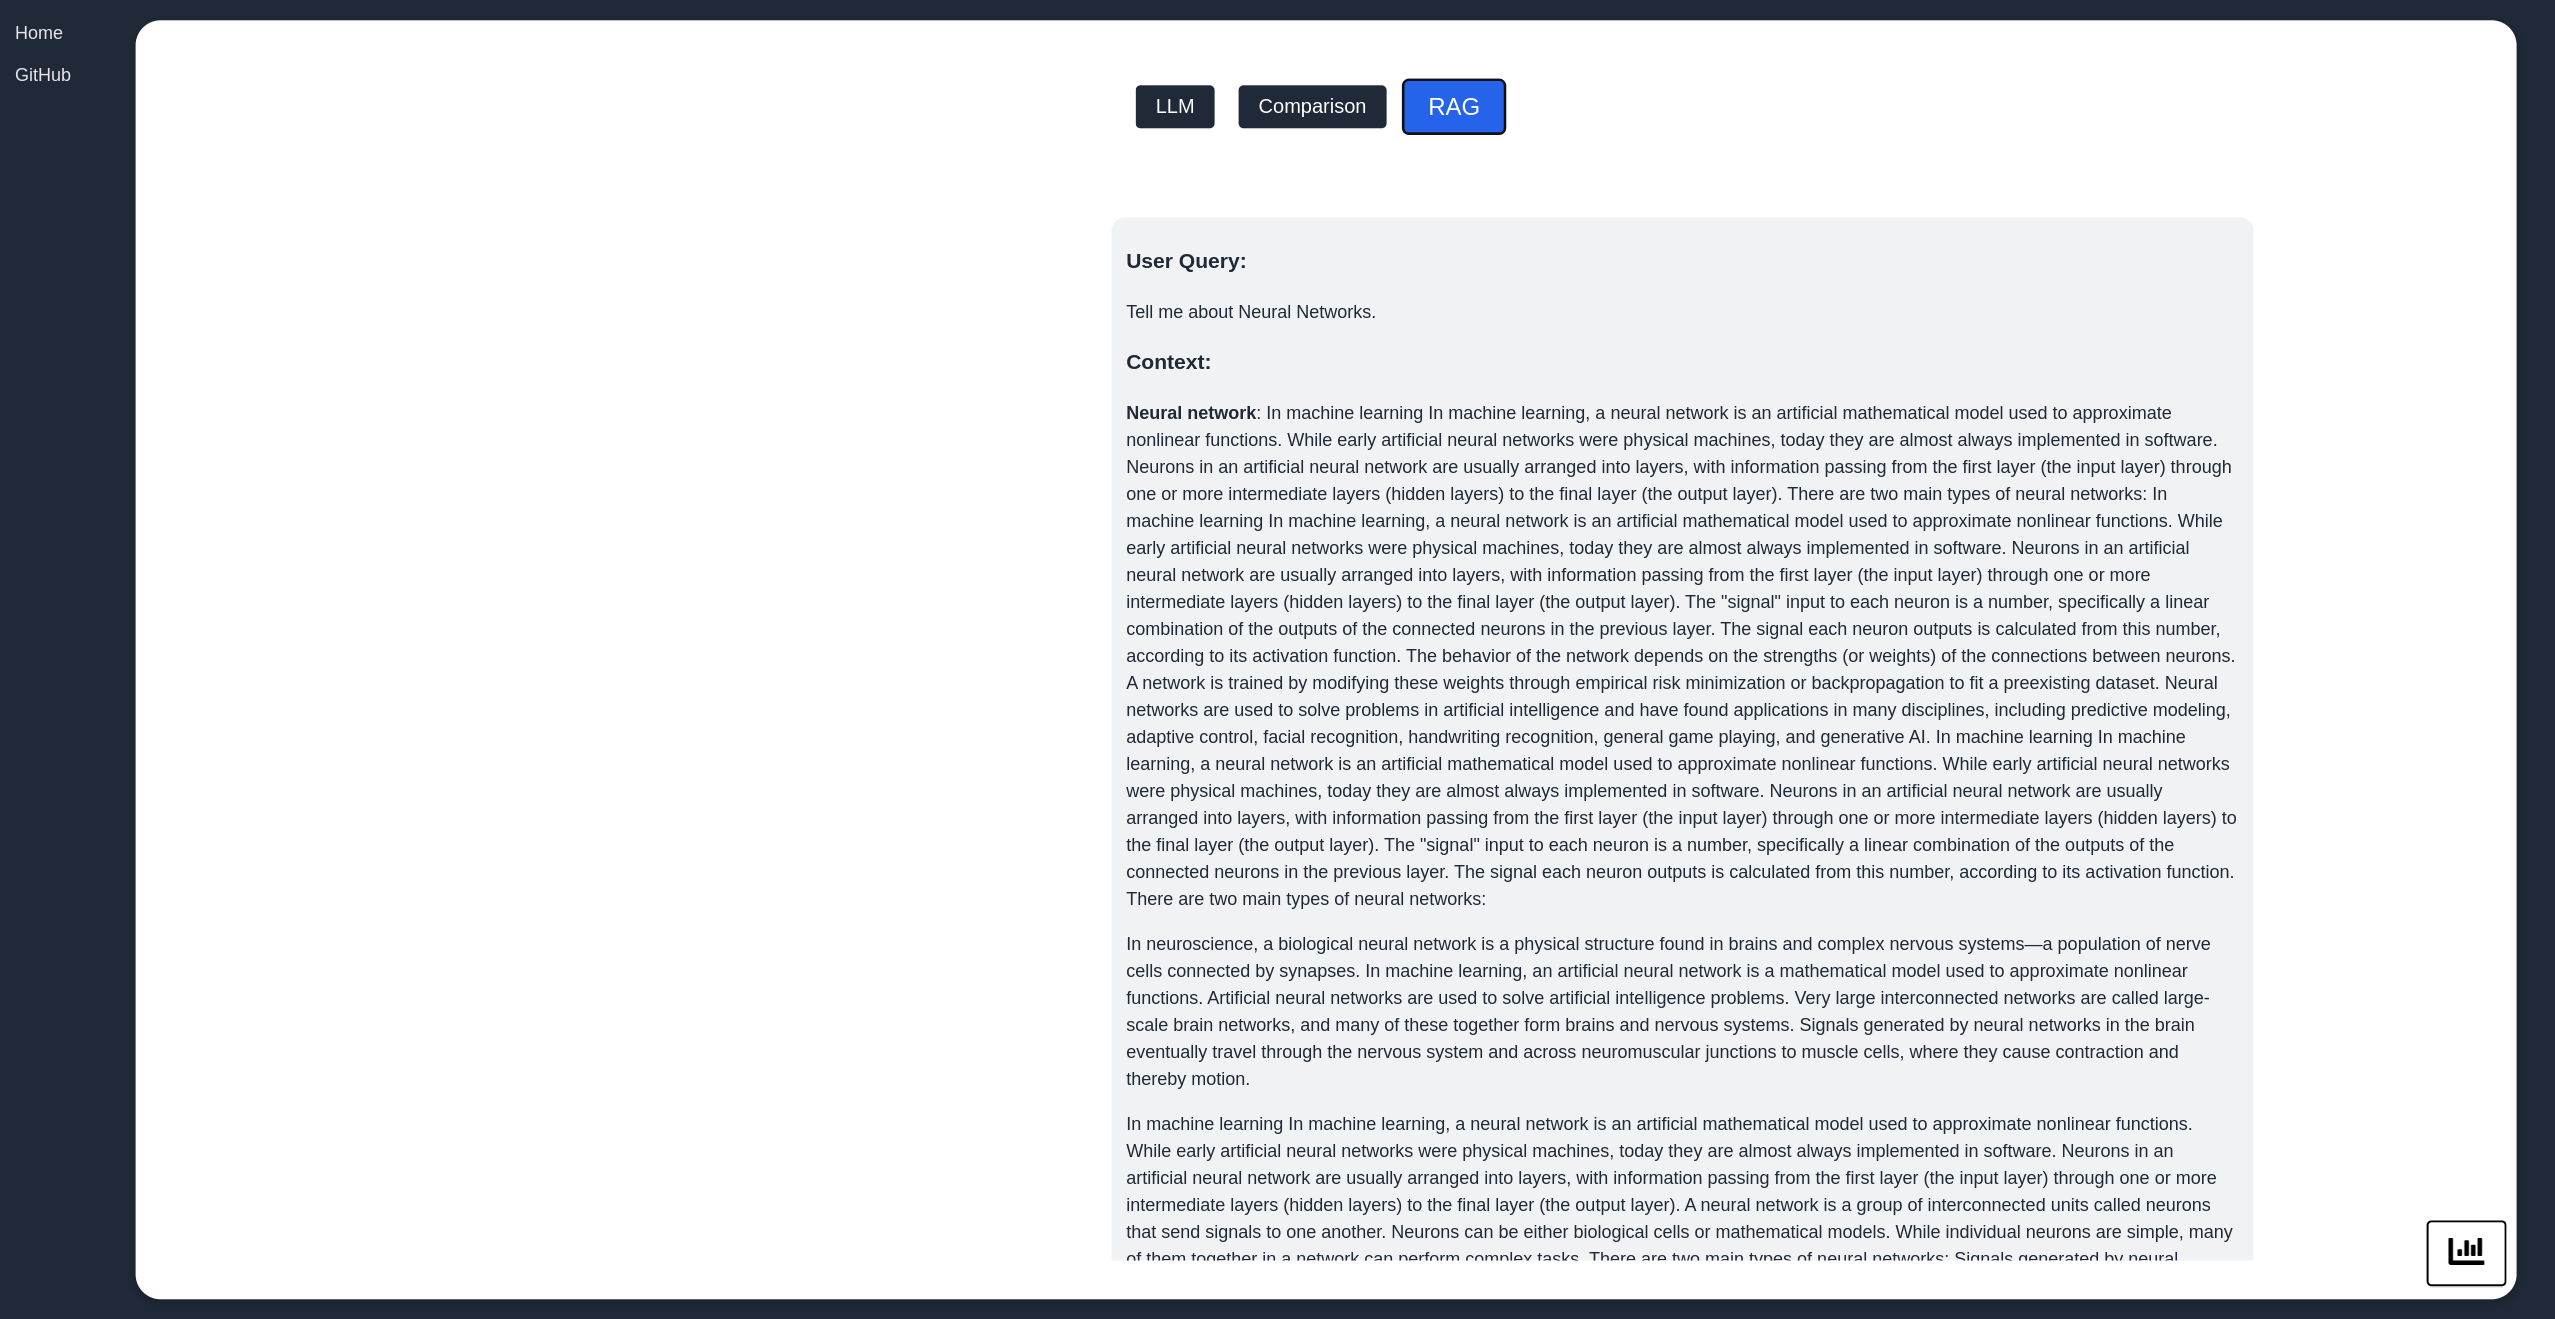
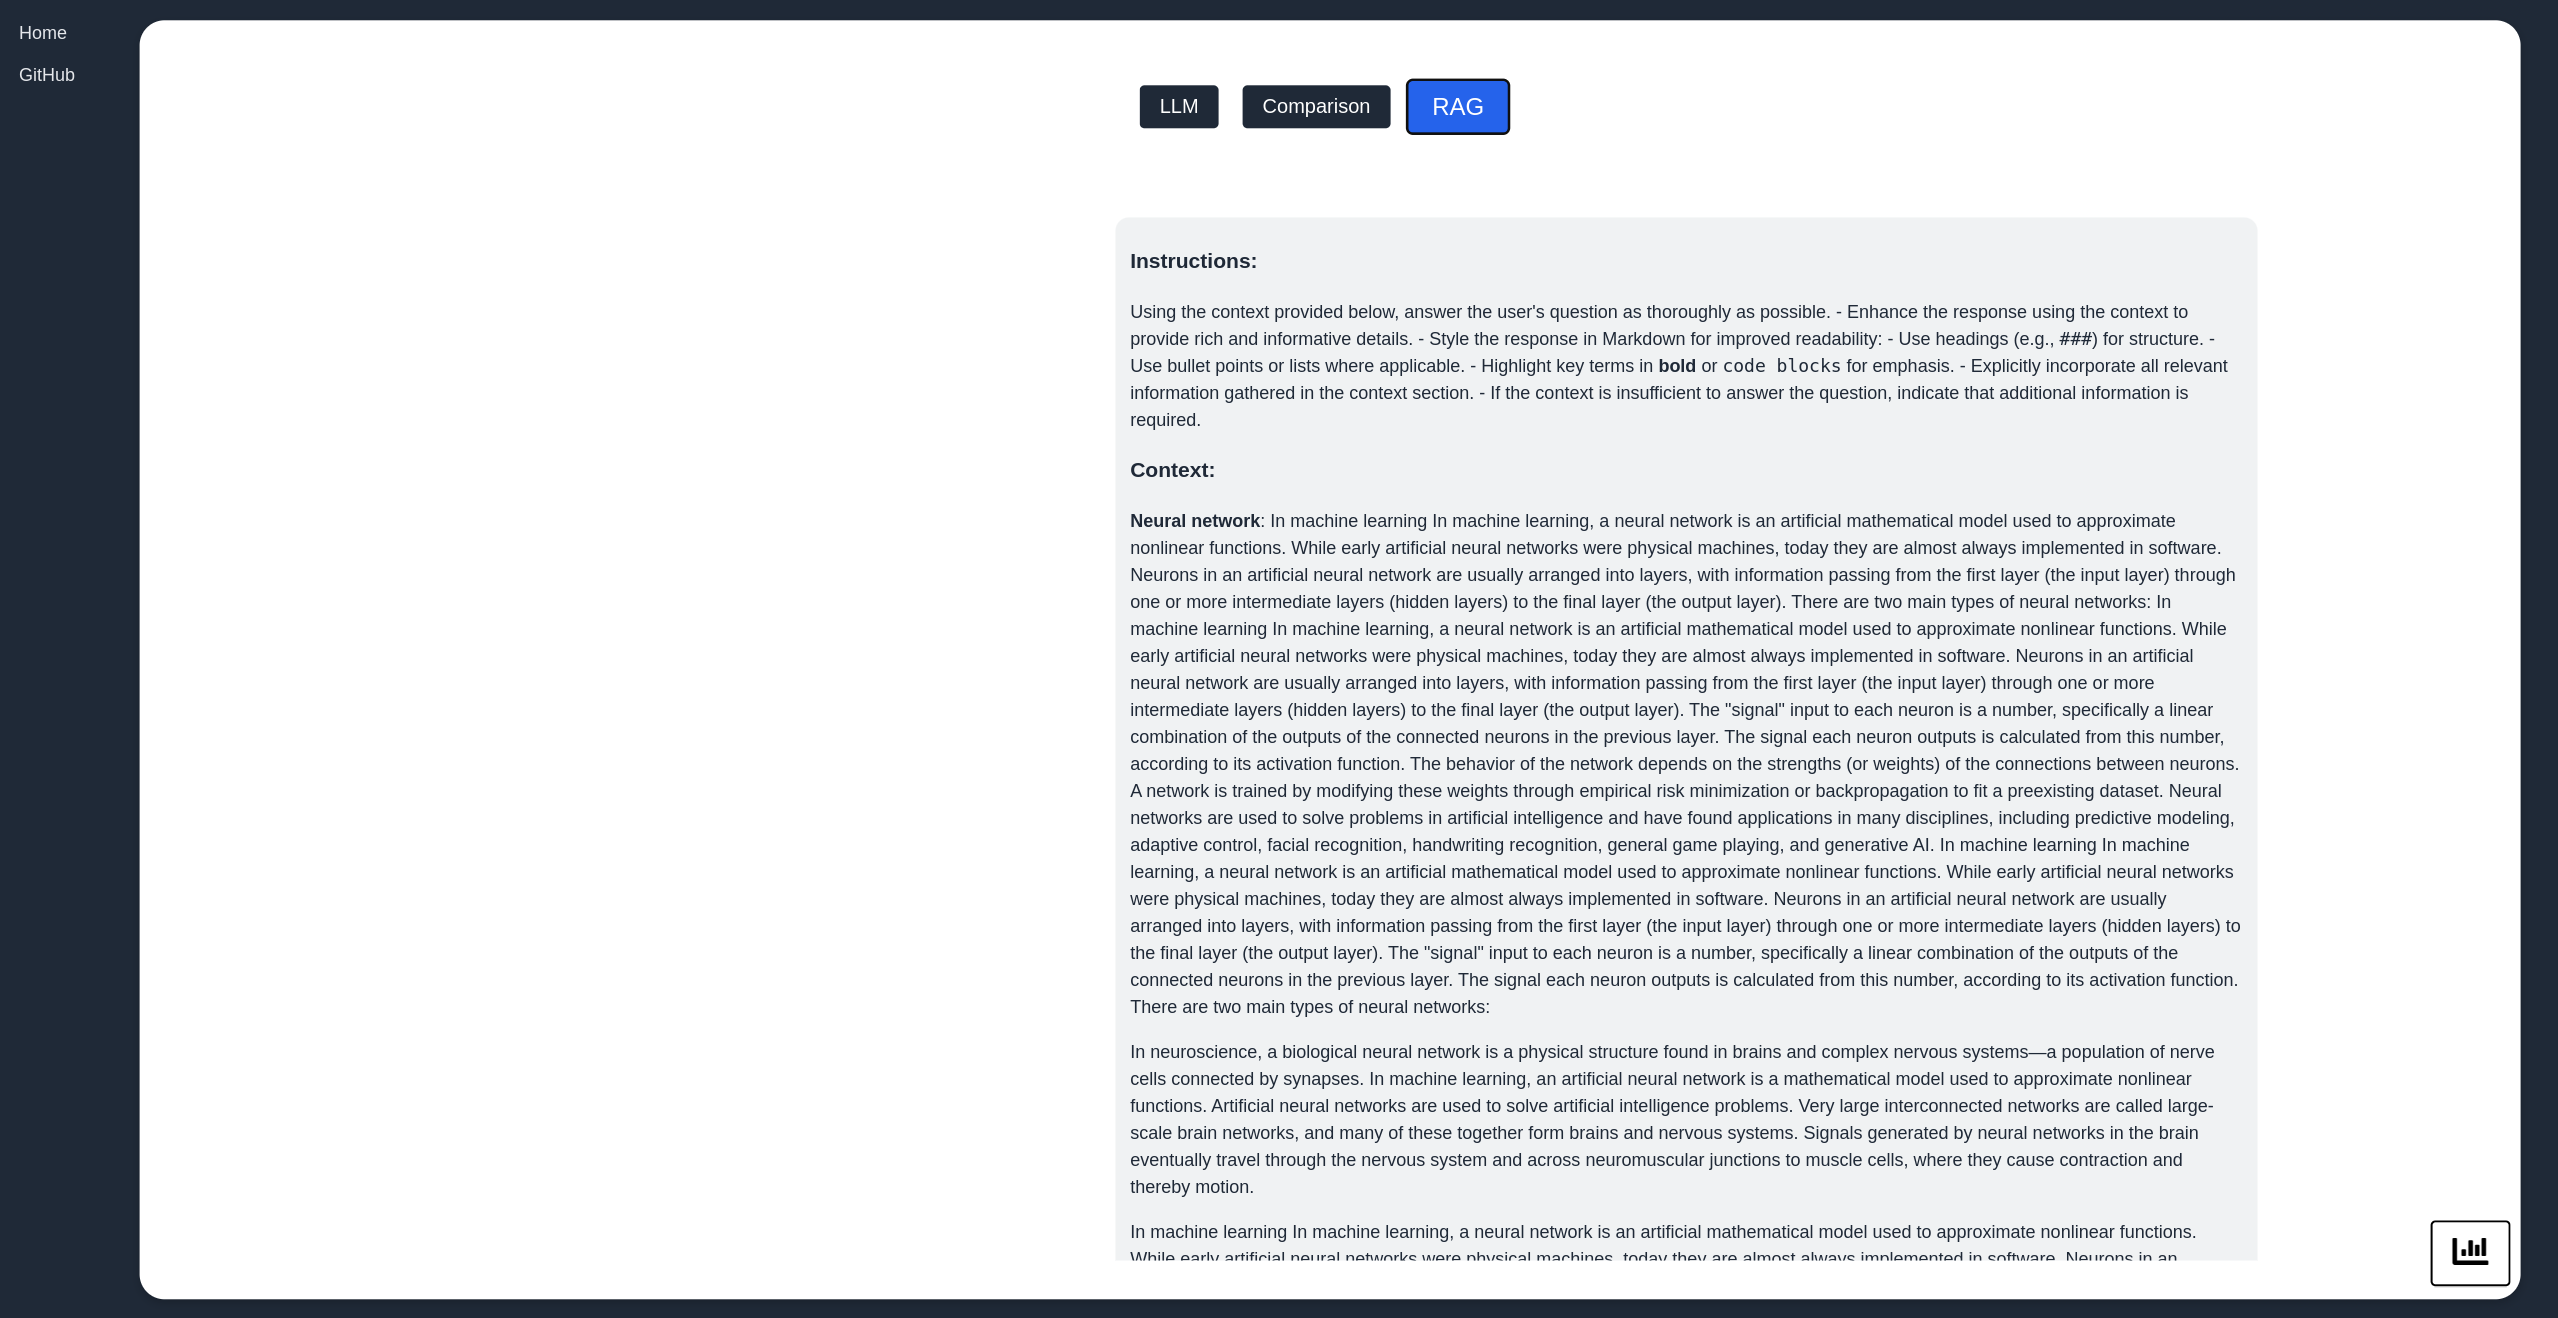
Feat: Image Quality + Instructions

diff --git a/backend/pipeline/rag_interface.py b/backend/pipeline/rag_interface.py
@@ -15,7 +15,7 @@ class RAG_Interface():
             - Use headings (e.g., `###`) for structure.
             - Use bullet points or lists where applicable.
             - Highlight key terms in **bold** or `code blocks` for emphasis.
-        - Explicitly incorporate information gathered in the context section. Do not include unrelated information, and ensure the response remains clear and easy to understand.
+        - Explicitly incorporate all relevant information gathered in the context section.
         - If the context is insufficient to answer the question, indicate that additional information is required.
         """
 

diff --git a/backend/pipeline/retriever.py b/backend/pipeline/retriever.py
@@ -13,7 +13,7 @@ class Retriever:
         self.nlp = nlp
         self.similarity_threshold = similariy_threshold
 
-    def search_and_fetch_pages(self, query, embedding_model, search_depth=2):
+    def search_and_fetch_pages(self, query, embedding_model, search_depth=3):
         #Needs to be changed to show cosine similarities
         keyphrase_query = [keyword_sim_pair[0] for keyword_sim_pair in extract_keyphrases(query, self.similarity_threshold)]
         wiki_pages = self.__search_wikipedia(keyphrase_query, search_depth)

diff --git a/backend/pipeline/context_generator.py b/backend/pipeline/context_generator.py
@@ -37,5 +37,5 @@ class Context_Generator():
 
     
     def assemble_augmented_query(self, user_query, context, instruction):
-        augmented_query = f"### User Query: \n {user_query.strip()} \n ### Context: \n {context.strip()} \n ### Instructions: \n {instruction.strip()}"
+        augmented_query = f"### Instructions: \n {instruction.strip()} \n ### Context: \n {context.strip()} \n ### User Query: \n {user_query.strip()}"
         return augmented_query
